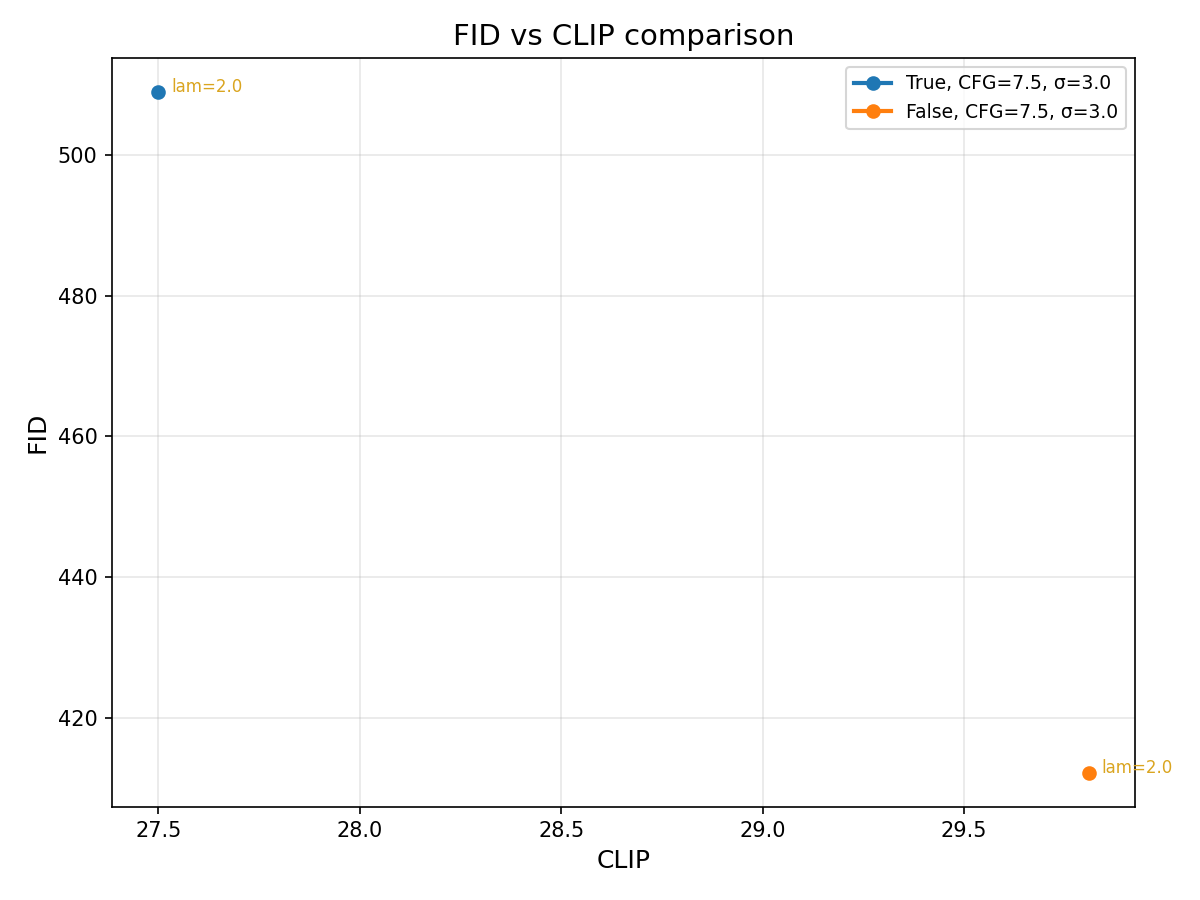
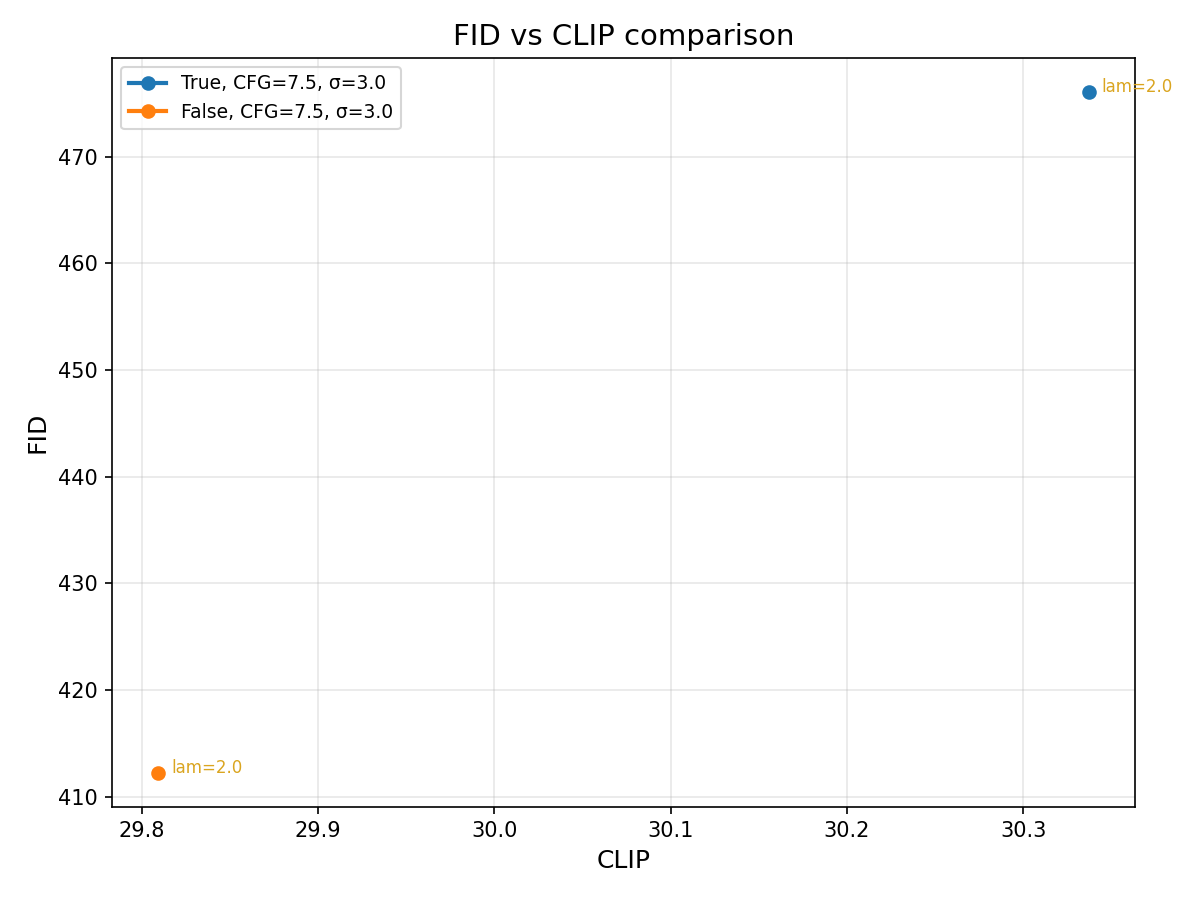
attempting one step in the future

diff --git a/diffusers/src/diffusers/replica_exchange/acceptance.py b/diffusers/src/diffusers/replica_exchange/acceptance.py
@@ -20,7 +20,7 @@ def compute_tsr_constant(t, lam, sigma: torch.Tensor, tsr_sigma: float, replica_
 
 @torch.no_grad()
 def _lam_ladder(tsr_lam, n_replicas, device, dtype, scale = 3.0):
-	lam_ladder = torch.tensor([tsr_lam , tsr_lam * scale], device=device, dtype=dtype)
+	lam_ladder = torch.tensor([tsr_lam , 1/tsr_lam], device=device, dtype=dtype)
 	assert (len(lam_ladder) == n_replicas)
 	return lam_ladder
 
@@ -99,8 +99,8 @@ def compute_score_integral(
 	joint_attention_kwargs=None,
 	n_segments=4,
 ):
-	x_t, temp_t, lam_t, i_t = target
-	x_s, temp_s, lam_s, i_s = source
+	x_t = target
+	x_s = source
 
 	orig_shape = x_s.shape
 	bs = orig_shape[0]
@@ -121,9 +121,55 @@ def compute_score_integral(
 	).reshape(n_seg, bs, d)
 	f = torch.trapezoid(score * r_deriv, s, dim=0).reshape(orig_shape)
 
-	print(f" f between {float(lam_t)} and {float(lam_s)} mean {f.mean().item()}")
-
 	return  f 
+
+def euler_step(noise_pred, sigma, sigma_next, sample):
+	"""
+	Simple Euler step for flow matching, no side effects.
+	sigma, sigma_next: scalar tensors
+	"""
+	dt = sigma_next - sigma
+	return sample + noise_pred * dt
+
+@torch.no_grad()
+def swapped(model, target, source, t, alpha_bar_i, prompt_embeds, pooled_prompt_embeds, scheduler, joint_attention_kwargs=None):
+	x_t, temp_t, lam_t, i_t = target
+	x_s, temp_s, lam_s, i_s = source
+
+	batch_size = x_t.shape[0]
+	timestep = t.expand(batch_size)
+	
+	# tile to exactly batch_size rather than using integer division
+	n_repeats = (batch_size + prompt_embeds.shape[0] - 1) // prompt_embeds.shape[0]
+	pe  = prompt_embeds.repeat(n_repeats, 1, 1)[:batch_size]
+	ppe = pooled_prompt_embeds.repeat(n_repeats, 1)[:batch_size]
+ 
+	noise_pred_t = model(
+		hidden_states=x_t,
+		timestep=timestep,
+		encoder_hidden_states=pe,
+		pooled_projections=ppe,
+		joint_attention_kwargs=joint_attention_kwargs,
+		return_dict=False,
+	)[0]
+ 
+	noise_pred_s = model(
+		hidden_states=x_s,
+		timestep=timestep,
+		encoder_hidden_states=pe,
+		pooled_projections=ppe,
+		joint_attention_kwargs=joint_attention_kwargs,
+		return_dict=False,
+	)[0]
+
+	sigma_i    = scheduler.sigmas[scheduler._step_index]
+	sigma_next = scheduler.sigmas[scheduler._step_index + 1]
+
+	x_t_under_s = euler_step(noise_pred_t * temp_s, sigma_i, sigma_next, x_t)
+	x_s_under_t = euler_step(noise_pred_s * temp_t, sigma_i, sigma_next, x_s)
+	x_t_under_t = euler_step(noise_pred_t * temp_t, sigma_i, sigma_next, x_t)
+	x_s_under_s = euler_step(noise_pred_s * temp_s, sigma_i, sigma_next, x_s)
+	return x_t_under_s, x_s_under_t, x_t_under_t, x_s_under_s
 
 
 @torch.no_grad()
@@ -136,15 +182,23 @@ def compute_correction(
 	alpha_bar_i,
 	prompt_embeds,
 	pooled_prompt_embeds,
+	scheduler,
 	joint_attention_kwargs=None,
 ):
 	x_t, temp_t, lam_t, i_t = target
 	x_s, temp_s, lam_s, i_s = source
 
-	f_t_s = compute_score_integral(
+	x_t_under_s, x_s_under_t, x_t_under_t, x_s_under_s = swapped(
+		model, 
+		target, 
+		source, 
+	 	t, alpha_bar_i, prompt_embeds, pooled_prompt_embeds, scheduler, joint_attention_kwargs=joint_attention_kwargs,
+	)
+ 	
+	f_s = compute_score_integral(
 		model,
-		target,
-		source,
+		x_t_under_s,
+		x_s_under_s,
 		t,
 		swap_algorithm,
 		alpha_bar_i,
@@ -152,9 +206,22 @@ def compute_correction(
 		pooled_prompt_embeds,
 		joint_attention_kwargs=joint_attention_kwargs,
 		) # p (t) / p(s)
-	print(f" temp ratio {temp_s / temp_t} between lams s {lam_s} and t {lam_t} temp s {float(temp_s)} t {float(temp_t)}")
-	energy_diff_clamped = torch.clamp(f_t_s, max = 0.0)
-	a = torch.exp(energy_diff_clamped )
+
+	f_t = compute_score_integral(
+		model,
+		x_s_under_t,
+		x_t_under_t,
+		t,
+		swap_algorithm,
+		alpha_bar_i,
+		prompt_embeds,
+		pooled_prompt_embeds,
+		joint_attention_kwargs=joint_attention_kwargs,
+		) # p (t) / p(s)
+
+	print(f" ft {f_t.mean().item()}  s {f_s.mean().item()} temp ratio {temp_s / temp_t} between lams s {lam_s} and t {lam_t} temp s {float(temp_s)} t {float(temp_t)}")
+	energy_diff_clamped = torch.clamp(f_t + f_s, max = 0.0)
+	a = torch.exp(energy_diff_clamped)
 	return a
 
 
@@ -171,6 +238,7 @@ def exchanged_replicas(
 	alpha_bar_i,
 	prompt_embeds,
 	pooled_prompt_embeds,
+	scheduler,
 	joint_attention_kwargs=None,
 ):
 
@@ -191,6 +259,7 @@ def exchanged_replicas(
 			alpha_bar_i,
 			prompt_embeds,
 			pooled_prompt_embeds,
+			scheduler,
 			joint_attention_kwargs=joint_attention_kwargs,
 		)
 
@@ -198,7 +267,7 @@ def exchanged_replicas(
 			rate = accept.mean().item()
 			print(f"Time {t:.2f} swap btwn source {float(lam_s):.2f} and target {float(lam_t):.2f} accept {rate:.3f} std {x.std().item():.3f}")
 				
-		mask = (accept).float()
+		mask = (torch.rand_like(accept)<accept).float()
 		x[i_t] = mask * x_s + (1-mask) * x_t
 		x[i_s] = mask * x_t + (1-mask) * x_s
 

diff --git a/diffusers/src/diffusers/pipelines/stable_diffusion_3/pipeline_stable_diffusion_3.py b/diffusers/src/diffusers/pipelines/stable_diffusion_3/pipeline_stable_diffusion_3.py
@@ -1138,7 +1138,7 @@ class StableDiffusion3Pipeline(DiffusionPipeline, SD3LoraLoaderMixin, FromSingle
 							tsr = compute_tsr_constant(t, tsr_lam_item, sigma_i, tsr_sigma)
 							noise_pred[batch_size * lam_index : batch_size * (lam_index+1)] *= tsr
 					else:
-						tsr = compute_tsr_constant(t, tsr_lam, sigma_i, tsr_sigm, replica_exchange=False)
+						tsr = compute_tsr_constant(t, tsr_lam, sigma_i, tsr_sigma, replica_exchange=False)
 						noise_pred *= tsr
 
 				# compute the previous noisy sample x_t -> x_t-1
@@ -1161,6 +1161,7 @@ class StableDiffusion3Pipeline(DiffusionPipeline, SD3LoraLoaderMixin, FromSingle
 						alpha_bar_i=alpha_bar_i,
 						prompt_embeds=prompt_embeds,
 						pooled_prompt_embeds=pooled_prompt_embeds,
+						scheduler=self.scheduler,
 						joint_attention_kwargs=self.joint_attention_kwargs,
 					)
 

diff --git a/batch_py/config.py b/batch_py/config.py
@@ -16,7 +16,7 @@ TSR_SIGMA = 3.0
 SWAP_ALGORITHM = {
 	"n_replicas": 2,
 	"p_ratio": "p",
-	"even_indices": [ 27,28],
+	"even_indices": [0,2,4,6,8,10,12,14,16,20,26],
 	"odd_indices":  [ ],
 	"debug": True,
 }
